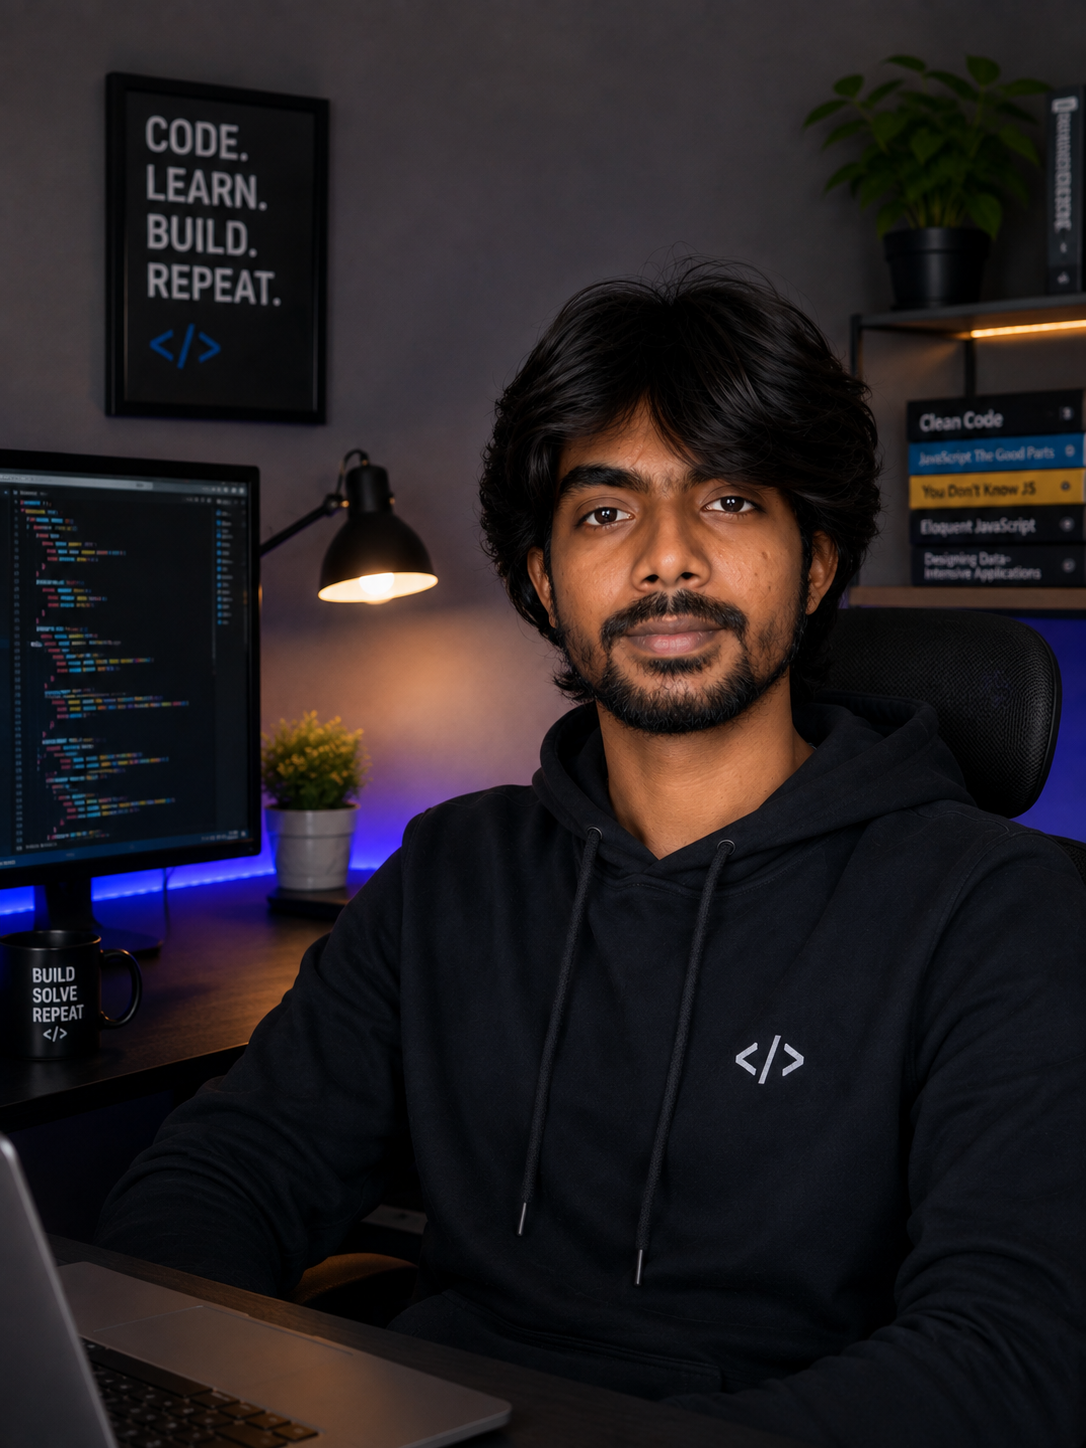
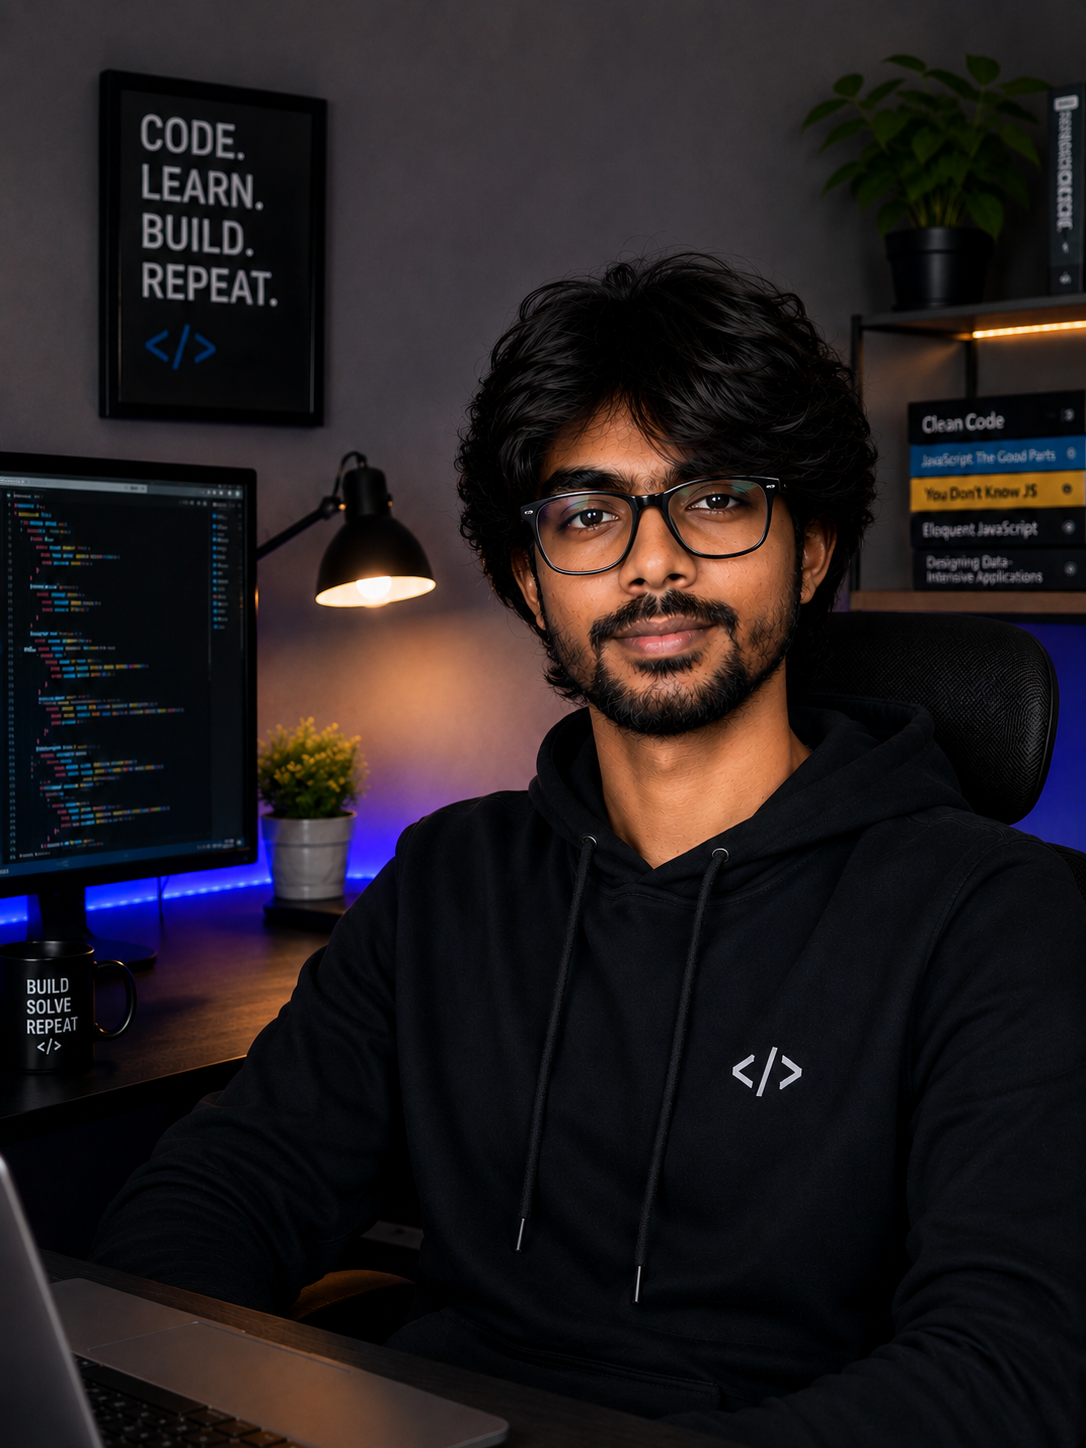
wip : project section

diff --git a/src/App.jsx b/src/App.jsx
@@ -6,18 +6,22 @@ import About from "./pages/About";
 import Skills from "./pages/Skills.jsx";
 import Experience from "./pages/Experience.jsx";
 import Contact from "./pages/Contact.jsx";
+import ScrollToTop from "./components/ScrollToTop.jsx";
 
 function App() {
   return (
-    <Routes>
-      <Route element={<OutletWithNavAndFooter />}>
-        <Route path="/" element={<Home />} />
-        <Route path="/about" element={<About />} />
-        <Route path="/skills" element={<Skills />} />
-        <Route path="/experience" element={<Experience />} />
-        <Route path="/contact" element={<Contact />} />
-      </Route>
-    </Routes>
+    <>
+      <ScrollToTop />
+      <Routes>
+        <Route element={<OutletWithNavAndFooter />}>
+          <Route path="/" element={<Home />} />
+          <Route path="/about" element={<About />} />
+          <Route path="/skills" element={<Skills />} />
+          <Route path="/experience" element={<Experience />} />
+          <Route path="/contact" element={<Contact />} />
+        </Route>
+      </Routes>
+    </>
   );
 }
 

diff --git a/src/components/ScrollToTop.jsx b/src/components/ScrollToTop.jsx
@@ -1,0 +1,15 @@
+// ScrollToTop.jsx
+import { useEffect } from "react";
+import { useLocation } from "react-router-dom";
+
+function ScrollToTop() {
+  const { pathname } = useLocation();
+
+  useEffect(() => {
+    window.scrollTo(0, 0);
+  }, [pathname]);
+
+  return null;
+}
+
+export default ScrollToTop;
